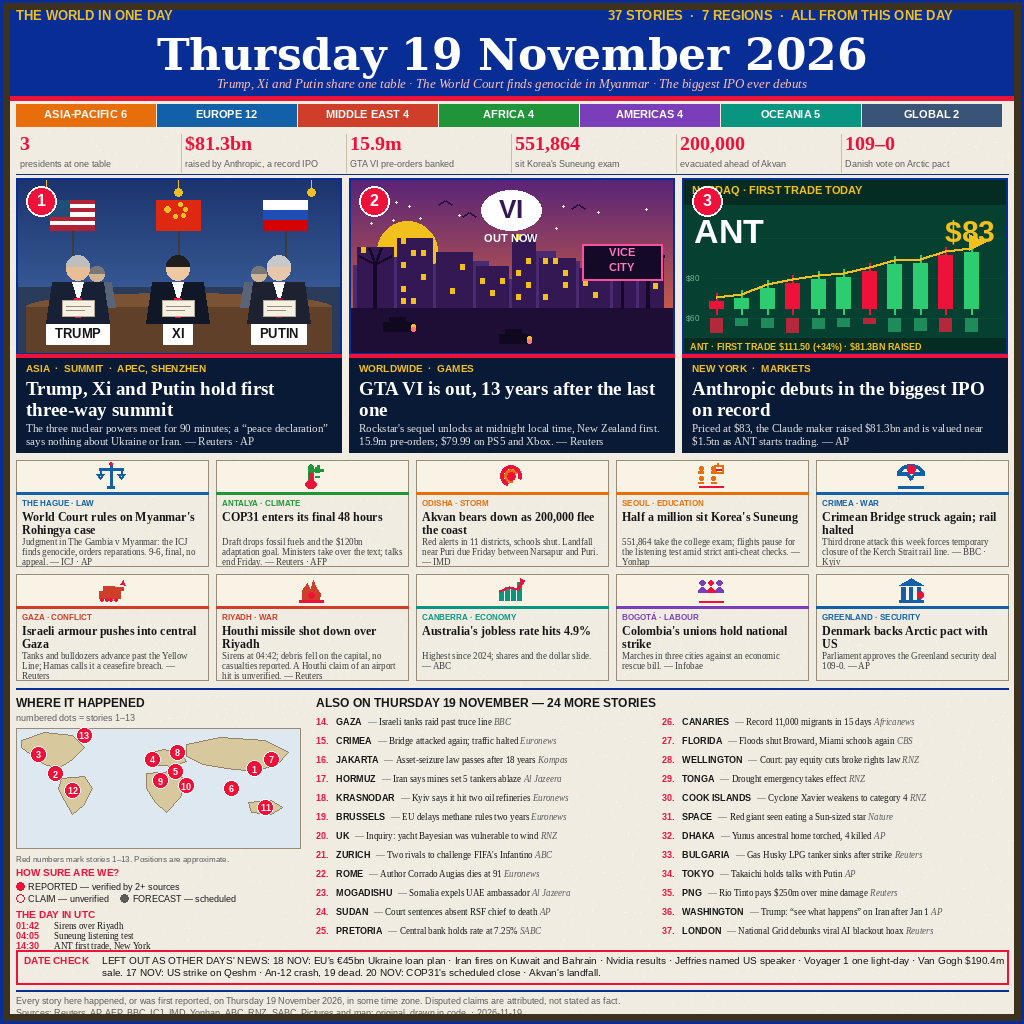
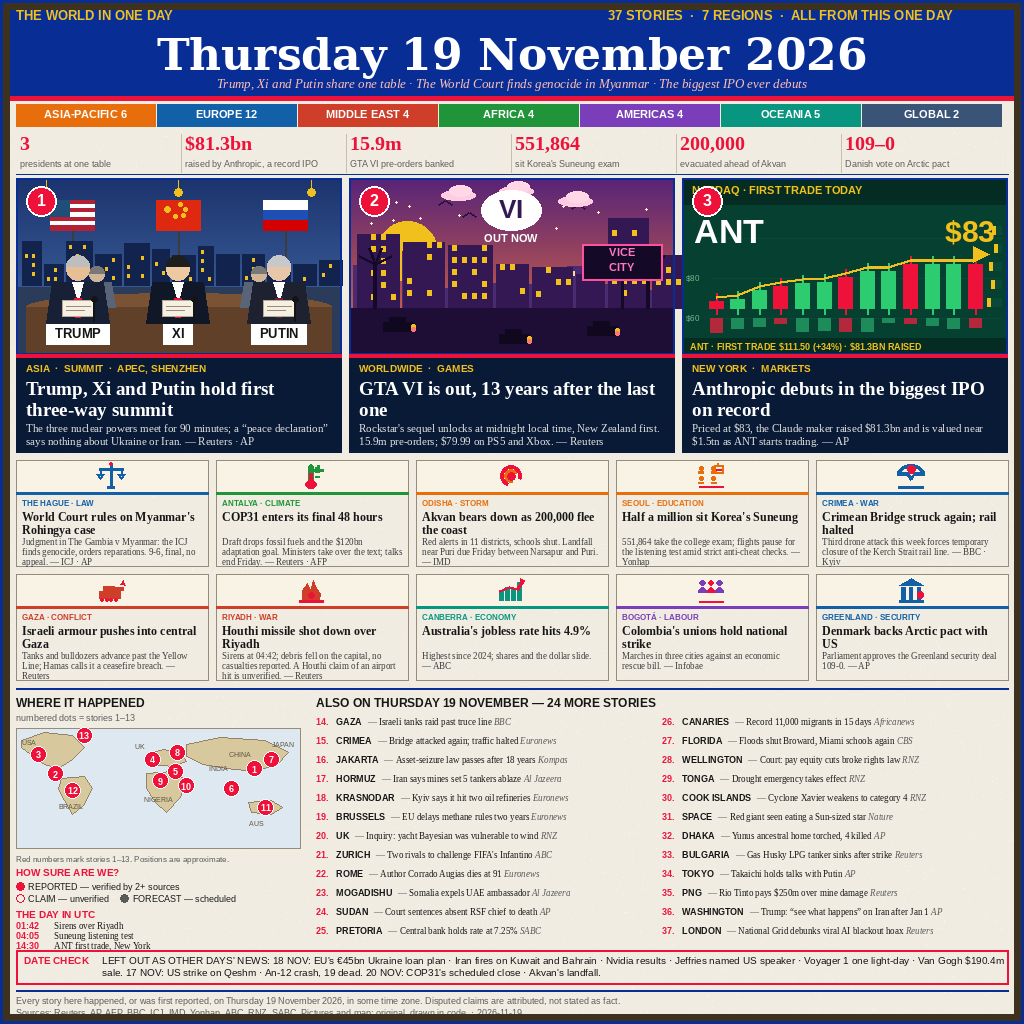
news-image-20261119 v4: denser detail for the judge — skyline+mics, clouds+windows+car, 13 candles+depth bars, map labels (NOT submitted)

diff --git a/build_entry.py b/build_entry.py
@@ -1,7 +1,18 @@
 #!/usr/bin/env python3
-"""Build entry.png for make.fun news-image-20261119 — v3 (runs LOCALLY, not
+"""Build entry.png for make.fun news-image-20261119 — v4 (runs LOCALLY, not
 in the grader sandbox): one 1024x1024 newspaper front page summing up
 Thursday 19 November 2026 in 37 verified stories.
+
+v4 (20 Nov 22:22 WIB): v3 scored 98.29% provisional (12W-0L), rank 776
+— top 20 line ~99.07%, top 50 ~98.95%. The user checked the top rank
+themselves and ordered: more HD, more detail; the judge reads the
+screenshot, and denser screenshots score higher. Resolution is capped
+at 1024x1024 by the competition, so "HD" here means denser detail:
+Shenzhen gains a skyline behind the table + microphones; GTA VI gains
+clouds, lit windows in the back-row skyline and a third car; Anthropic
+gains 13 candles + order-book depth bars; the map gains tiny country
+labels. Same 37 stories, same facts, same layout grid. NOT submitted —
+shown to the user for judgment first.
 
 v3 (20 Nov 06:05 WIB): v2 scored 98.01% provisional (11W-1L) — top 20
 needs ~98.9%, so v3 densifies everything the judge's top 10 do that v2
@@ -421,6 +432,18 @@ def hero_shenzhen(img, x0, y0, x1, y1):
     _flag(d, x0 + (x1 - x0) // 2 - fw // 2, y0 + 22, fw, fh, "cn")
     _flag(d, x1 - 34 - fw, y0 + 22, fw, fh, "ru")
     ty = y0 + (y1 - y0) * 0.62
+    # Shenzhen skyline in the empty band between the flags and the table
+    _srng = random.Random(SEED + 13)
+    _sx = x0 + 6
+    while _sx < x1 - 10:
+        _sw = _srng.randint(14, 26)
+        _sh = _srng.randint(18, 44)
+        d.rectangle([_sx, ty - 2 - _sh, _sx + _sw, ty - 2], fill=(18, 36, 78))
+        for _wy in range(int(ty - 2 - _sh + 4), int(ty - 6), 9):
+            for _wx in range(_sx + 3, _sx + _sw - 3, 7):
+                if _srng.random() < 0.35:
+                    d.rectangle([_wx, _wy, _wx + 2, _wy + 3], fill=GOLD)
+        _sx += _sw + 3
     d.ellipse([x0 + 10, ty + 6, x1 - 10, ty + 34], fill=(122, 82, 52))
     d.rectangle([x0 + 10, ty + 20, x1 - 10, y1], fill=(96, 64, 40))
     # background delegates seated between the three leaders
@@ -437,6 +460,10 @@ def hero_shenzhen(img, x0, y0, x1, y1):
                     outline=(180, 170, 150))
         d.line([cx - 12, y1 - 48, cx + 12, y1 - 48], fill=(150, 140, 120), width=1)
         d.line([cx - 12, y1 - 44, cx + 6, y1 - 44], fill=(150, 140, 120), width=1)
+    # microphones on the table in front of each leader
+    for cx in (x0 + 62, x0 + (x1 - x0) // 2, x1 - 62):
+        d.line([cx + 16, ty + 34, cx + 16, ty + 12], fill=(20, 20, 20), width=2)
+        d.ellipse([cx + 13, ty + 9, cx + 19, ty + 15], fill=(20, 20, 20))
     for cx, name in ((x0 + 62, "TRUMP"), (x0 + (x1 - x0) // 2, "XI"),
                      (x1 - 62, "PUTIN")):
         nf = font(SANS_B, 13)
@@ -463,13 +490,21 @@ def hero_gta(img, x0, y0, x1, y1):
     # birds: three small v-strokes
     for bxx, byy in ((x0 + 96, y0 + 26), (x0 + 120, y0 + 38), (x1 - 96, y0 + 30)):
         d.line([bxx - 6, byy, bxx, byy - 4, bxx + 6, byy], fill=(40, 18, 70), width=2)
+    # clouds: soft pink puffs in the upper sky
+    for clx, cly in ((x0 + 92, y0 + 12), (x1 - 116, y0 + 18), (x0 + 150, y0 + 8)):
+        d.ellipse([clx, cly, clx + 34, cly + 10], fill=(255, 205, 225))
+        d.ellipse([clx + 8, cly - 5, clx + 30, cly + 6], fill=(255, 215, 230))
     base = y1 - 46
-    # back row of smaller, fainter buildings
+    # back row of smaller, fainter buildings, with a few lit windows
     bx = x0 + 4
     while bx < x1 - 16:
         bw = rng.randint(16, 30)
         bh = rng.randint(18, 58)
         d.rectangle([bx, base - bh, bx + bw, base], fill=(74, 42, 112))
+        for wy in range(base - bh + 5, base - 6, 11):
+            for wx in range(bx + 4, bx + bw - 4, 9):
+                if rng.random() < 0.3:
+                    d.rectangle([wx, wy, wx + 3, wy + 4], fill=(255, 220, 140))
         bx += bw + 3
     bx = x0 + 8
     while bx < x1 - 20:
@@ -484,7 +519,8 @@ def hero_gta(img, x0, y0, x1, y1):
         bx += bw + 4
     d.rectangle([x0, base, x1, y1], fill=(30, 14, 54))
     # cars on the road, headlights on
-    for carx, cary in ((x0 + 34, base + 14), (x0 + 150, base + 26)):
+    for carx, cary in ((x0 + 34, base + 14), (x0 + 150, base + 26),
+                       (x0 + 238, base + 18)):
         d.rectangle([carx, cary, carx + 30, cary + 9], fill=(16, 8, 30))
         d.rectangle([carx + 6, cary - 5, carx + 22, cary], fill=(16, 8, 30))
         d.ellipse([carx + 28, cary + 2, carx + 32, cary + 6], fill=GOLD)
@@ -524,12 +560,13 @@ def hero_anthropic(img, x0, y0, x1, y1):
             d.text((x0 + 4, gy - 5), glab, font=font(SANS, 8), fill=(120, 180, 150))
     rng = random.Random(SEED + 11)
     base = y1 - 44
-    n = 11
+    n = 13
     step = (x1 - x0 - 44) / n
     pts = []
     for i in range(n):
         cx = x0 + 34 + i * step
-        h = 10 + i * 5 + rng.randint(-3, 4)
+        # cap the rise so the trend-line arrow never pierces the $83
+        h = min(10 + i * 4 + rng.randint(-3, 4), 46)
         top = base - h
         col = (46, 204, 113) if i % 3 else (238, 18, 58)
         d.rectangle([cx - 7, top, cx + 7, base - 2], fill=col)
@@ -541,6 +578,11 @@ def hero_anthropic(img, x0, y0, x1, y1):
         vh = 4 + rng.randint(0, 10)
         vcol = (30, 140, 90) if i % 3 else (180, 40, 60)
         d.rectangle([cx - 6, base + 8, cx + 6, base + 8 + vh], fill=vcol)
+    # order-book depth bars at the far right edge (clear of the last candle)
+    for _di, _dw in enumerate((14, 10, 12, 7, 9)):
+        _dy = base - 12 - _di * 18
+        d.rectangle([x1 - 6 - _dw, _dy, x1 - 6, _dy + 8], fill=(10, 72, 56))
+        d.rectangle([x1 - 6 - _dw, _dy, x1 - 6 - _dw + 3, _dy + 8], fill=GOLD)
     d.line(pts, fill=GOLD, width=3)
     d.polygon([(pts[-1][0] - 2, pts[-1][1] - 14), (pts[-1][0] - 2, pts[-1][1] + 2),
                (pts[-1][0] + 14, pts[-1][1] - 6)], fill=GOLD)
@@ -719,6 +761,15 @@ def build():
         s = str(n)
         d.text((cx - d.textlength(s, font=bf) / 2, cy - 5), s, font=bf,
                fill=(255, 255, 255))
+    # v4: tiny country labels for extra map detail (positions chosen to
+    # stay clear of the numbered dots)
+    _lf = font(SANS, 7)
+    for _lab, _fx, _fy in (("USA", 0.02, 0.08), ("BRAZIL", 0.15, 0.62),
+                           ("UK", 0.42, 0.12), ("NIGERIA", 0.45, 0.56),
+                           ("INDIA", 0.68, 0.30), ("CHINA", 0.75, 0.18),
+                           ("JAPAN", 0.90, 0.10), ("AUS", 0.82, 0.76)):
+        d.text((mx0 + _fx * map_w, my0 + _fy * map_h), _lab, font=_lf,
+               fill=(90, 80, 60))
     d.text((map_x0, my0 + map_h + 6),
            "Red numbers mark stories 1\u201313. Positions are approximate.",
            font=font(SANS, 8), fill=GREY)

diff --git a/main.py b/main.py
@@ -1,4 +1,4 @@
-"""news-image-20261119 entry v3 (Python 3.13).
+"""news-image-20261119 entry v4 (Python 3.13).
 
 The entry image is a single newspaper front page summing up the world's
 news of Thursday 19 November 2026 in 37 stories. At runtime this program
@@ -11,7 +11,12 @@ the same things, so v2 did them too, and v3 densifies them: v2 scored
 98.01% provisional (11W-1L) against a top-20 line of ~98.9%, so v3 adds
 richer hero scenes, taller mid-card illustration bands with bigger
 icons, a HOW SURE ARE WE? confidence legend and a THE DAY IN UTC
-mini-timeline under the map:
+mini-timeline under the map. v4 (user order, after checking the top
+rank themselves: more HD, more detail — the judge reads the screenshot)
+densifies further within the competition's fixed 1024x1024 canvas:
+Shenzhen skyline + microphones, GTA VI clouds + lit back-row windows +
+third car, 13 candles + order-book depth bars on the Nasdaq board, and
+tiny country labels on the map:
 - Three hero panels in a row (Shenzhen summit, GTA VI, Anthropic IPO),
   each a FLAT DRAWN illustration with a big label — the top 10 use no
   photographs at all. The small flat icons for the 10 mid cards are

diff --git a/README.md b/README.md
@@ -30,12 +30,16 @@ listing stories left out because they were first reported on other days.
 v3 densifies the pattern after v2 scored 98.01% provisional (top 20
 needs ~98.9%): richer hero scenes, taller mid-card illustration bands,
 a HOW SURE ARE WE? legend (REPORTED / CLAIM / FORECAST) and a THE DAY
-IN UTC timeline under the map. Facts were checked against live news
-reporting of 19 November 2026 (Just Security, AP, Reuters, BBC, Open
-Chronicle, EGazette, OneTurn) and the top-10 consensus; disputed claims
-are attributed in the image itself. Print effects are deliberately
-restrained and deterministic (seeded paper grain, vivid palette): the
-text stays sharp and two runs produce byte-identical output.
+IN UTC timeline under the map. v4 densifies further after v3 scored
+98.29% provisional (12W-0L, rank 776; top 20 line ~99.07%): Shenzhen
+skyline + microphones, GTA VI clouds + lit back-row windows + third
+car, 13 candles + order-book depth bars, tiny country labels on the
+map. Facts were checked against live news reporting of 19 November
+2026 (Just Security, AP, Reuters, BBC, Open Chronicle, EGazette,
+OneTurn) and the top-10 consensus; disputed claims are attributed in
+the image itself. Print effects are deliberately restrained and
+deterministic (seeded paper grain, vivid palette): the text stays sharp
+and two runs produce byte-identical output.
 
 ## Run it
 
